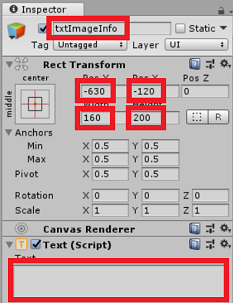
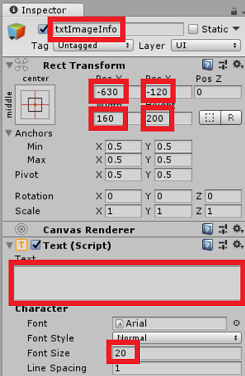
add ToString() to VisionAPIResults

diff --git a/03-ImageLabels/scripts/VisionAPIResults.cs b/03-ImageLabels/scripts/VisionAPIResults.cs
@@ -6,17 +6,33 @@ public class VisionAPIResults
     public Description description;
     public string requestId;
     public MetaData metadata;
+
+    override
+    public string ToString()
+    {
+        string words = "";
+        foreach (Caption caption in description.captions)
+        {
+            if (words.Length > 0)
+            {
+                words += " ";
+            }
+            words += caption.text;
+            words += " [" + caption.confidence.ToString("0.00") + ")";
+        }
+        return words;
+    }
 }
 
 [System.Serializable]
 public class Description
 {
     public List<string> tags;
-    public List<Captions> captions;
+    public List<Caption> captions;
 }
 
 [System.Serializable]
-public class Captions
+public class Caption
 {
     public string text;
     public float confidence;

diff --git a/03-ImageLabels/scripts/VisionAPIUtils.cs b/03-ImageLabels/scripts/VisionAPIUtils.cs
@@ -35,10 +35,7 @@ public class VisionAPIUtils
         {
             string json = www.text;
             VisionAPIResults results = JsonUtility.FromJson<VisionAPIResults>(json);
-            string text = results.description.captions[0].text;
-            string confidence = results.description.captions[0].confidence.ToString("0.00");
-            string labelText = text + " (" + confidence + ")";
-            setText(labelText, textComponent, type);
+            setText(results.ToString(), textComponent, type);
         }
     }
 

diff --git a/04-Camera/README.md b/04-Camera/README.md
@@ -74,6 +74,7 @@ Follow these instructions to deploy the application when using the emulator:
    - For **Width** type **160**
    - For **Height** type **200**
    - For **Text** remove the default text **Next Text**
+   - For **Font Size** set to **20**
 
   > Checkpoint: Click **Run**. For now you will see the layout of the new UI components. The won't do anything yet, but that's in the next section, where we will configure scripts so that when you click the **Identify** button your device's camera takes a picture, sends the image to the Computer Vision API, and the results are displayed.
 
